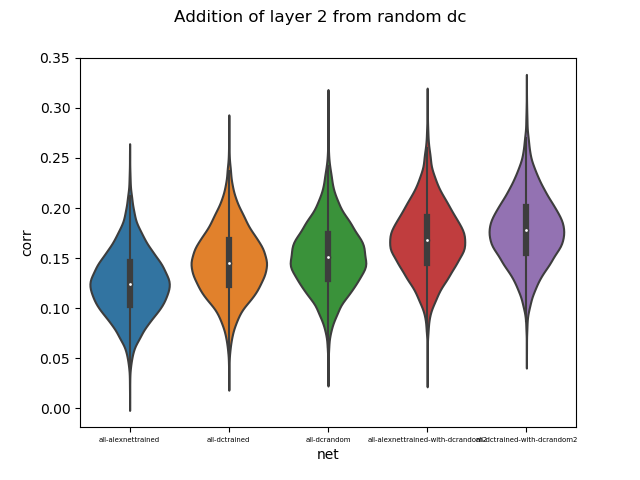
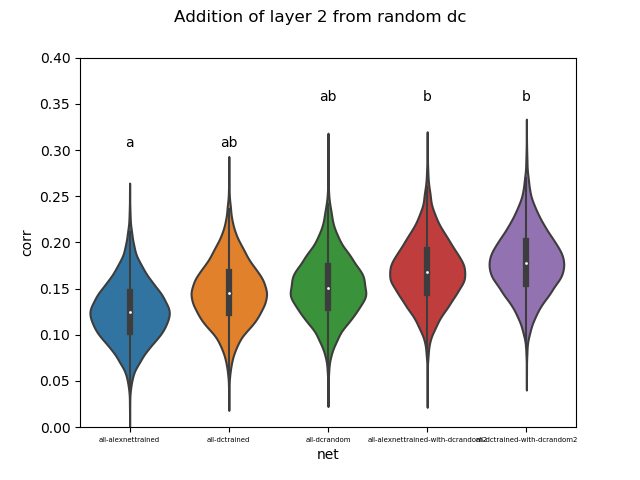
significance on bootrapping plots added

diff --git a/code/bootstrapping_stats.py b/code/bootstrapping_stats.py
@@ -48,7 +48,9 @@ def main():
     comparisons = [ ['all-dctrained','all-alexnettrained'],
                     ['all-dcrandom','all-alexnettrained'],['all-dcrandom','all-dctrained'],
                     ['all-alexnettrained-with-dcrandom2','all-alexnettrained'],['all-alexnettrained-with-dcrandom2','all-dctrained'],['all-alexnettrained-with-dcrandom2','all-dcrandom'],
-                    ['all-dctrained-with-dcrandom2','all-alexnettrained'],['all-dctrained-with-dcrandom2','all-dctrained'],['all-dctrained-with-dcrandom2','all-dcrandom'],['all-dctrained-with-dcrandom2','all-alexnettrained-with-dcrandom2']]
+                    ['all-dctrained-with-dcrandom2','all-alexnettrained'],['all-dctrained-with-dcrandom2','all-dctrained'],['all-dctrained-with-dcrandom2','all-dcrandom'],['all-dctrained-with-dcrandom2','all-alexnettrained-with-dcrandom2'],
+                    ['all-alexnettrained-with-dcrandom3','all-alexnettrained'],['all-alexnettrained-with-dcrandom3','all-dctrained'],['all-alexnettrained-with-dcrandom3','all-dcrandom'],
+                    ['all-dctrained-with-dcrandom3','all-alexnettrained'],['all-dctrained-with-dcrandom3','all-dctrained'],['all-dctrained-with-dcrandom3','all-dcrandom'],['all-dctrained-with-dcrandom3','all-alexnettrained-with-dcrandom3']]
 
     ### model vs baseline
     with open('/home/annatruzzi/multiple_deepcluster/results/CombinedModels_BootstrappingStats.txt','w') as f:

diff --git a/code/bootstrapping_plots.py b/code/bootstrapping_plots.py
@@ -43,12 +43,26 @@ def main():
     g1=sns.violinplot(x='net',y='corr',data=df_layer2)
     g1.set_xticklabels(g1.get_xticklabels(), size = 5)
     plt.suptitle('Addition of layer 2 from random dc')
+    plt.ylim((0,0.4))
+    g1.text(0, 0.30, "a", ha='center', va='bottom',fontsize = 10)  
+    g1.text(1, 0.30, "ab", ha='center', va='bottom',fontsize = 10)  
+    g1.text(2, 0.35, "ab", ha='center', va='bottom',fontsize = 10)  
+    g1.text(3, 0.35, "b", ha='center', va='bottom',fontsize = 10)  
+    g1.text(4, 0.35, "b", ha='center', va='bottom',fontsize = 10)  
     plt.savefig('/home/annatruzzi/multiple_deepcluster/figures/bootstrapping_plots_withdcrandomd_layer2.png')
+    plt.close()
 
     g2=sns.violinplot(x='net',y='corr',data=df_layer2)
     g2.set_xticklabels(g2.get_xticklabels(), size = 5)
+    plt.ylim((0,0.4))
+    g2.text(0, 0.30, "a", ha='center', va='bottom',fontsize = 10)  
+    g2.text(1, 0.30, "ab", ha='center', va='bottom',fontsize = 10)  
+    g2.text(2, 0.35, "ab", ha='center', va='bottom',fontsize = 10)  
+    g2.text(3, 0.35, "b", ha='center', va='bottom',fontsize = 10)  
+    g2.text(4, 0.35, "ab", ha='center', va='bottom',fontsize = 10)  
     plt.suptitle('Addition of layer 3 from random dc')
     plt.savefig('/home/annatruzzi/multiple_deepcluster/figures/bootstrapping_plots_withdcrandom_layer3.png')
+    plt.close()
     a=1
 
 if __name__ == '__main__':
